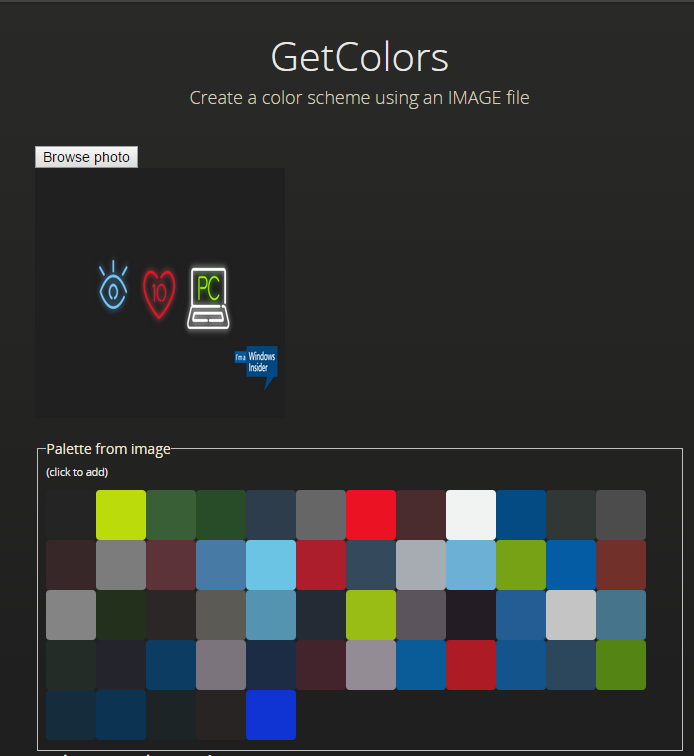
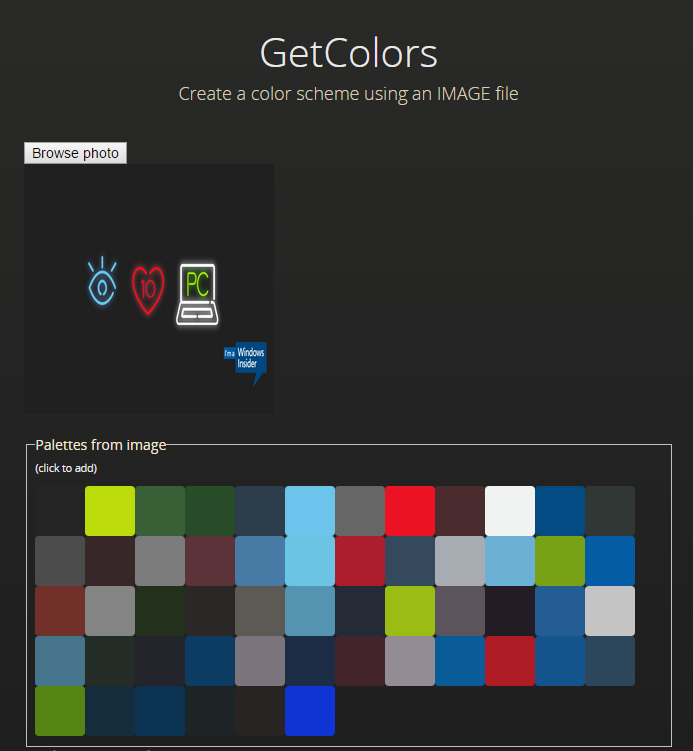
updates

diff --git a/index.html b/index.html
@@ -49,7 +49,7 @@
             </div>
 
             <fieldset>
-                <legend>Palette from image </legend>
+                <legend>Palettes from image </legend>
                 <h6>(click to add)</h6>
                 <div ng-repeat="hex in hexes">
                     <div ng-if="!removeAdded(hex)"
@@ -57,7 +57,7 @@
                          ng-click="includeForChroma(hex)"></div>
                 </div>
             </fieldset>
-            <h2>Palette Selected</h2>
+            <h2>Palettes Selected</h2>
             <fieldset>
                 <legend>JSON Array</legend>
                 <div>
